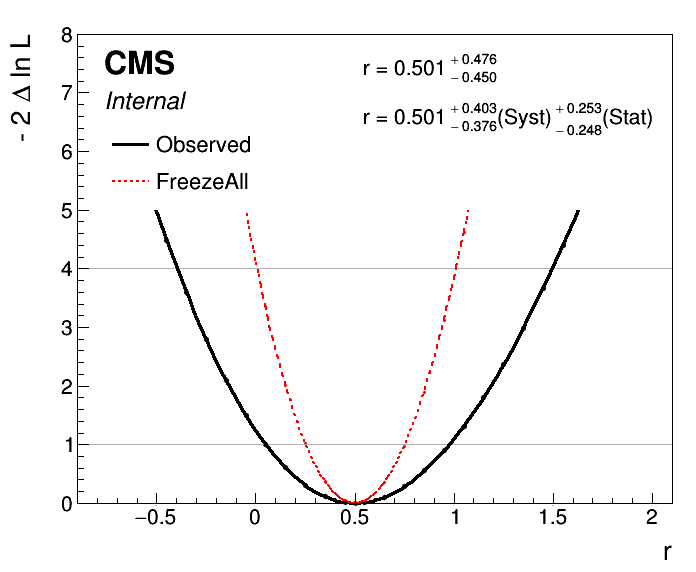
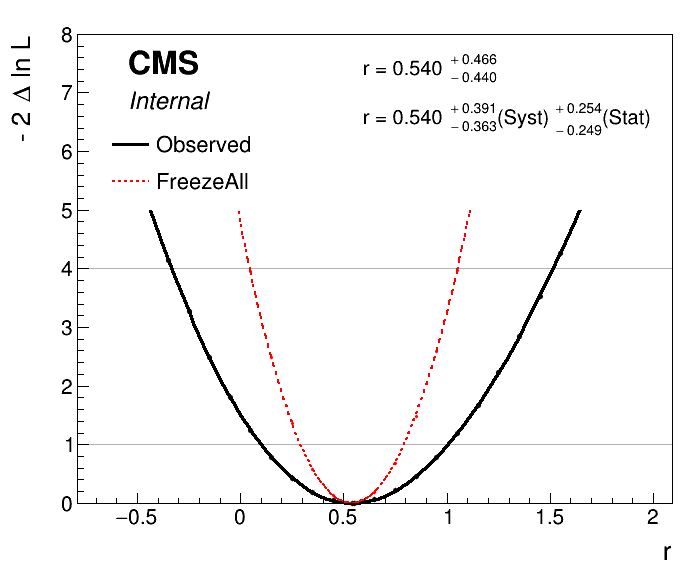
Fix tutorial cards for part3, update docs, fix channel masks

diff --git a/src/Combine.cc b/src/Combine.cc
@@ -341,7 +341,7 @@ void Combine::run(TString hlfFile, const std::string &dataset, double &limit, do
     if (POI->getSize() > 1) std::cerr << "ModelConfig '" << modelConfigName_ << "' defines more than one parameter of interest. This is not supported in some statistical methods." << std::endl;
     if (mc->GetObservables() == 0) throw std::invalid_argument("ModelConfig '"+modelConfigName_+"' does not define observables.");
     if (mc->GetPdf() == 0) throw std::invalid_argument("ModelConfig '"+modelConfigName_+"' does not define a pdf.");
-    if (auto pdf = dynamic_cast<RooSimultaneous*>(mc->GetPdf()); pdf!=nullptr) {
+    if (auto pdf = dynamic_cast<RooSimultaneous*>(mc->GetPdf()); pdf!=nullptr && dynamic_cast<RooSimultaneousOpt*>(pdf)==nullptr) {
       if (rebuildSimPdf_) {
           pdf = utils::rebuildSimPdf(*mc->GetObservables(), pdf);
           w->import(*pdf);

diff --git a/docs/part5/longexercise.md b/docs/part5/longexercise.md
@@ -411,16 +411,16 @@ shapes *              signal_region  datacard_part3.shapes.root signal_region/$P
 shapes bbHtautau      signal_region  datacard_part3.shapes.root signal_region/bbHtautau$MASS signal_region/bbHtautau$MASS_$SYSTEMATIC
 shapes *              ttbar_cr       datacard_part3_ttbar_cr.shapes.root tt_control_region/$PROCESS tt_control_region/$PROCESS_$SYSTEMATIC
 ----------------------------------------------------------------------------------------------------------------------------------
-bin          signal_region  ttbar_cr       DY_cr
-observation  3416           79251          365754
+bin          signal_region  ttbar_cr       DY_cr        
+observation  3416           79251          365754       
 ----------------------------------------------------------------------------------------------------------------------------------
-bin                                               signal_region  signal_region  signal_region  signal_region  signal_region  ttbar_cr       ttbar_cr       ttbar_cr       ttbar_cr       ttbar_cr       DY_cr          DY_cr          DY_cr          DY_cr          DY_cr          DY_cr
-process                                           bbHtautau      ttbar          diboson        Ztautau        jetFakes       Ztautau        ttbar          VV             W              QCD            W              Ztautau        VV             QCD            ttbar          Zmumu
-process                                           0              1              2              3              4              3              1              5              6              7              6              3              5              7              1              8
-rate                                              198.521        683.017        96.5185        742.649        2048.94        150.025        67280.4        10589.6        597.336        308.965        59.9999        115.34         5273.43        141.725        34341.1        305423
+bin                                               signal_region  signal_region  signal_region  signal_region  signal_region  ttbar_cr       ttbar_cr       ttbar_cr       ttbar_cr       ttbar_cr       DY_cr          DY_cr          DY_cr          DY_cr          DY_cr          DY_cr        
+process                                           bbHtautau      ttbar          diboson        Ztautau        jetFakes       W              QCD            ttbar          VV             Ztautau        W              QCD            Zmumu          ttbar          VV             Ztautau      
+process                                           0              1              2              3              4              5              6              1              7              3              5              6              8              1              7              3            
+rate                                              198.521        683.017        96.5185        742.649        2048.94        597.336        308.965        67280.4        10589.6        150.025        59.9999        141.725        305423         34341.1        5273.43        115.34       
 ----------------------------------------------------------------------------------------------------------------------------------
-CMS_eff_b               lnN                       1.02           1.02           1.02           1.02           -              -              -              -              -              -              -              -              -              -              -              -
-CMS_eff_e               lnN                       -              -              -              -              -              1.02           1.02           1.02           1.02           -              -              -              -              -              -              -
+CMS_eff_b               lnN                       1.02           1.02           1.02           1.02           -              -              -              -              -              -              -              -              -              -              -              -            
+CMS_eff_e               lnN                       -              -              -              -              -              1.02           -              -              1.02           1.02           -              -              -              -              -              -            
 ```
 </details>
 
@@ -446,7 +446,7 @@ is perfectly valid and only one `rateParam` will be created. These parameters wi
 **Tasks and questions:**
 
   - Run `text2workspace.py` on this combined card and then use `FitDiagnostics` on an Asimov dataset with `r=1` to get the expected uncertainty. Suggested command line options: `--rMin 0 --rMax 2`
-  - Using the RooFitResult in the `fitdiagnostics.root` file, check the post-fit value of the rateParams. To what level are the normalisations of the DY and ttbar processes constrained?
+  - Using the RooFitResult in the `fitDiagnosticsTest.root` file, check the post-fit value of the rateParams. To what level are the normalisations of the DY and ttbar processes constrained?
   - To compare to the previous approach of fitting the SR only, with cross section and acceptance uncertainties restored, an additional card is provided: `datacard_part3_nocrs.txt`. Run the same fit on this card to verify the improvement of the SR+CR approach
 
 ### B: Nuisance parameter impacts
@@ -483,13 +483,13 @@ To produce these distributions add the `--saveShapes` and `--saveWithUncertainti
 combine -M FitDiagnostics workspace_part3.root -m 200 --rMin -1 --rMax 2 --saveShapes --saveWithUncertainties
 ```
 
-Combine will produce pre- and post-fit distributions (for fit_s and fit_b) in the fitdiagnostics.root output file:
+Combine will produce pre- and post-fit distributions (for fit_s and fit_b) in the fitDiagnosticsTest.root output file:
 
 ![](images/fit_diag_shapes.png)
 
 **Tasks and questions:**
 
-  - Make a plot showing the expected background and signal contributions using the output from `FitDiagnostics` - do this for both the pre-fit and post-fit. You will find a script `postFitPlot.py` in the `cms-das-stats` repository that can help you get started.
+  - Make a plot showing the expected background and signal contributions using the output from `FitDiagnostics` - do this for both the pre-fit and post-fit. You will find a script `postFitPlot.py` in the `data/tutorials/longexercise` directory that can help you get started.
  The bin errors on the TH1s in the fitdiagnostics file are determined from the systematic uncertainties. In the post-fit these take into account the additional constraints on the nuisance parameters as well as any correlations.
 
   - Why is the uncertainty on the post-fit so much smaller than on the pre-fit?
@@ -548,37 +548,37 @@ root [1] limit->Scan("r:deltaNLL")
 ************************************
 *    Row   *         r *  deltaNLL *
 ************************************
-*        0 * 0.5010952 *         0 *
-*        1 * -0.949999 * 5.0565371 *
-*        2 * -0.850000 * 4.4238944 *
-*        3 *     -0.75 * 3.8230235 *
-*        4 * -0.649999 * 3.2571268 *
-*        5 * -0.550000 * 2.7290999 *
-*        6 * -0.449999 * 2.2421050 *
-*        7 * -0.349999 * 1.7986002 *
-*        8 *     -0.25 * 1.4009695 *
-*        9 * -0.150000 * 1.0512697 *
-*       10 * -0.050000 * 0.7508889 *
-*       11 * 0.0500000 * 0.5007593 *
-*       12 * 0.1500000 * 0.3015080 *
-*       13 *      0.25 * 0.1530667 *
-*       14 * 0.3499999 * 0.0549822 *
-*       15 * 0.4499999 * 0.0062253 *
-*       16 * 0.5500000 * 0.0055419 *
-*       17 * 0.6499999 * 0.0512909 *
-*       18 *      0.75 * 0.1416319 *
-*       19 * 0.8500000 * 0.2743169 *
-*       20 * 0.9499999 * 0.4471097 *
-*       21 * 1.0499999 * 0.6578967 *
-*       22 * 1.1499999 * 0.9042429 *
-*       23 *      1.25 * 1.1838192 *
-*       24 * 1.3500000 * 1.4944315 *
-*       25 * 1.4500000 * 1.8335464 *
-*       26 * 1.5499999 * 2.1993224 *
-*       27 * 1.6499999 * 2.5896029 *
-*       28 *      1.75 * 3.0024433 *
-*       29 * 1.8500000 * 3.4359285 *
-*       30 * 1.9500000 * 3.8883554 *
+*        0 * 0.5399457 *         0 *
+*        1 * -0.949999 * 5.6350698 *
+*        2 * -0.850000 * 4.9482779 *
+*        3 *     -0.75 * 4.2942519 *
+*        4 * -0.649999 * 3.6765284 *
+*        5 * -0.550000 * 3.0985388 *
+*        6 * -0.449999 * 2.5635135 *
+*        7 * -0.349999 * 2.0743820 *
+*        8 *     -0.25 * 1.6337506 *
+*        9 * -0.150000 * 1.2438088 *
+*       10 * -0.050000 * 0.9059833 *
+*       11 * 0.0500000 * 0.6215767 *
+*       12 * 0.1500000 * 0.3910581 *
+*       13 *      0.25 * 0.2144184 *
+*       14 * 0.3499999 * 0.0911308 *
+*       15 * 0.4499999 * 0.0201983 *
+*       16 * 0.5500000 * 0.0002447 *
+*       17 * 0.6499999 * 0.0294311 *
+*       18 *      0.75 * 0.1058298 *
+*       19 * 0.8500000 * 0.2272539 *
+*       20 * 0.9499999 * 0.3912534 *
+*       21 * 1.0499999 * 0.5952836 *
+*       22 * 1.1499999 * 0.8371513 *
+*       23 *      1.25 * 1.1142146 *
+*       24 * 1.3500000 * 1.4240909 *
+*       25 * 1.4500000 * 1.7644306 *
+*       26 * 1.5499999 * 2.1329684 *
+*       27 * 1.6499999 * 2.5273966 *
+*       28 *      1.75 * 2.9458723 *
+*       29 * 1.8500000 * 3.3863399 *
+*       30 * 1.9500000 * 3.8469560 *
 ************************************
 ```
 </details>
@@ -715,6 +715,3 @@ For a model with two POIs it is often useful to look at the how well we are able
 
   - Run a 2D likelihood scan in `r_ggH` and `r_bbH`. You can start with around 100 points but may need to increase this later too see more detail in the resulting plot.
   - Have a look at the output limit tree, it should have branches for each POI as well as the usual deltaNLL value. You can use TTree::Draw to plot a 2D histogram of deltaNLL with `r_ggH` and `r_bbH` on the axes.
-
-
-

diff --git a/docs/part5/longexerciseanswers.md b/docs/part5/longexerciseanswers.md
@@ -148,21 +148,21 @@ Only tasks, no questions in this section
 <details>
 <summary><b>Show answer</b></summary>
 
-*As expected uncertainty you should get  `-0.42542/+0.458748`*
+*As expected uncertainty you should get  `-0.417238/+0.450593`*
 
 </details>
-  - Using the RooFitResult in the `fitdiagnostics.root` file, check the post-fit value of the rateParams. To what level are the normalisations of the DY and ttbar processes constrained?
+  - Using the RooFitResult in the `fitDiagnosticsTest.root` file, check the post-fit value of the rateParams. To what level are the normalisations of the DY and ttbar processes constrained?
 <details>
 <summary><b>Show answer</b></summary>
 
-*They are constrained to around 4-5%*
+*They are constrained to around 1-2%*
 
 </details>
   - To compare to the previous approach of fitting the SR only, with cross section and acceptance uncertainties restored, an additional card is provided: `datacard_part3_nocrs.txt`. Run the same fit on this card to verify the improvement of the SR+CR approach
 <details>
 <summary><b>Show answer</b></summary>
 
-*The expected uncertainty is larger with only the SR: `-0.463273/+0.499161` compared with `-0.42542/+0.458748` in the SR+CR approach.*
+*The expected uncertainty is larger with only the SR: `-0.465799/+0.502088` compared with `-0.417238/+0.450593` in the SR+CR approach.*
 
 </details>
 
@@ -174,7 +174,7 @@ Only tasks, no questions in this section
 <details>
 <summary><b>Show answer</b></summary>
 
-*The most important uncertainty is *`norm_jetFakes`*, followed by two MC statistical uncerainties* (`prop_binsignal_region_bin8` *and* `prop_binsignal_region_bin9`).
+*The most important uncertainty is *`norm_jetFakes`*, followed by two MC statistical uncertainties* (`prop_binsignal_region_bin8` *and* `prop_binsignal_region_bin9`).
 
 </details>
   - In the plot, some parameters do not show a plotted point for the fitted value, but rather just a numerical value - why?
